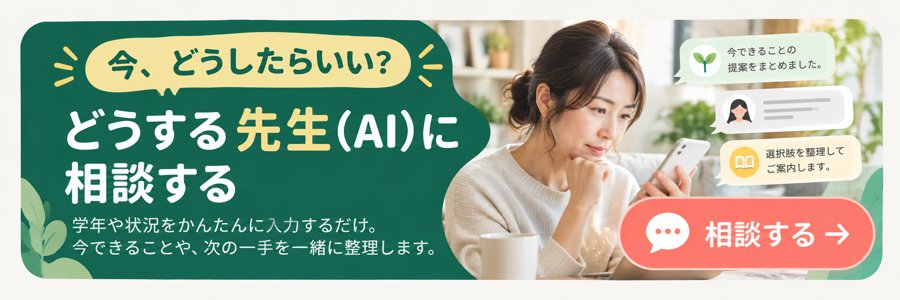
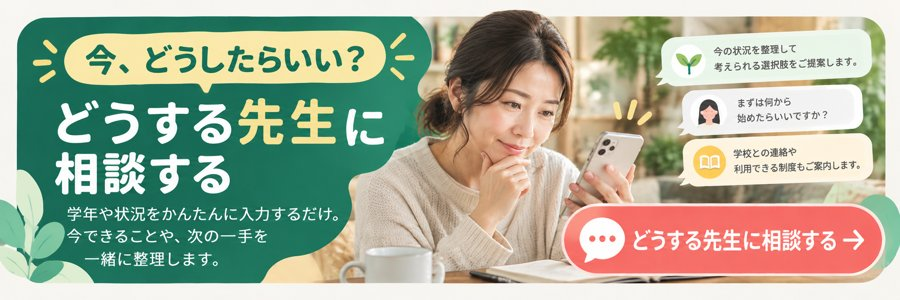
ホームCTAバナー画像を別案（ボタン文言違い）に差し替え
Claude-Session: https://claude.ai/code/session_01W4DjqrLJb97aoKyTKAMNzw

diff --git a/app/HomeClient.tsx b/app/HomeClient.tsx
@@ -151,11 +151,11 @@ export default function HomeClient({
             スマホ幅で縮小した時の可読性は少し犠牲になるが、まずはスマホのみ試す
             形で導入（960px以上では.home-cta-bannerを非表示にする。
             app/globals.css参照）。バナー画像自体は2026-10-15、人物写真入りの
-            デザインに差し替え。 */}
+            デザインに差し替え（その後さらに別案に再差し替え）。 */}
         <Link href="/ask" className="card home-cta">
           <img
             src="/assets/home_cta_banner.jpg"
-            alt="「今、どうしたらいい？」どうする先生（AI）に相談する。学年や状況をかんたんに入力するだけ。今できることや、次の一手を一緒に整理します。"
+            alt="「今、どうしたらいい？」どうする先生に相談する。学年や状況をかんたんに入力するだけ。今できることや、次の一手を一緒に整理します。"
             className="home-cta-banner"
           />
         </Link>
